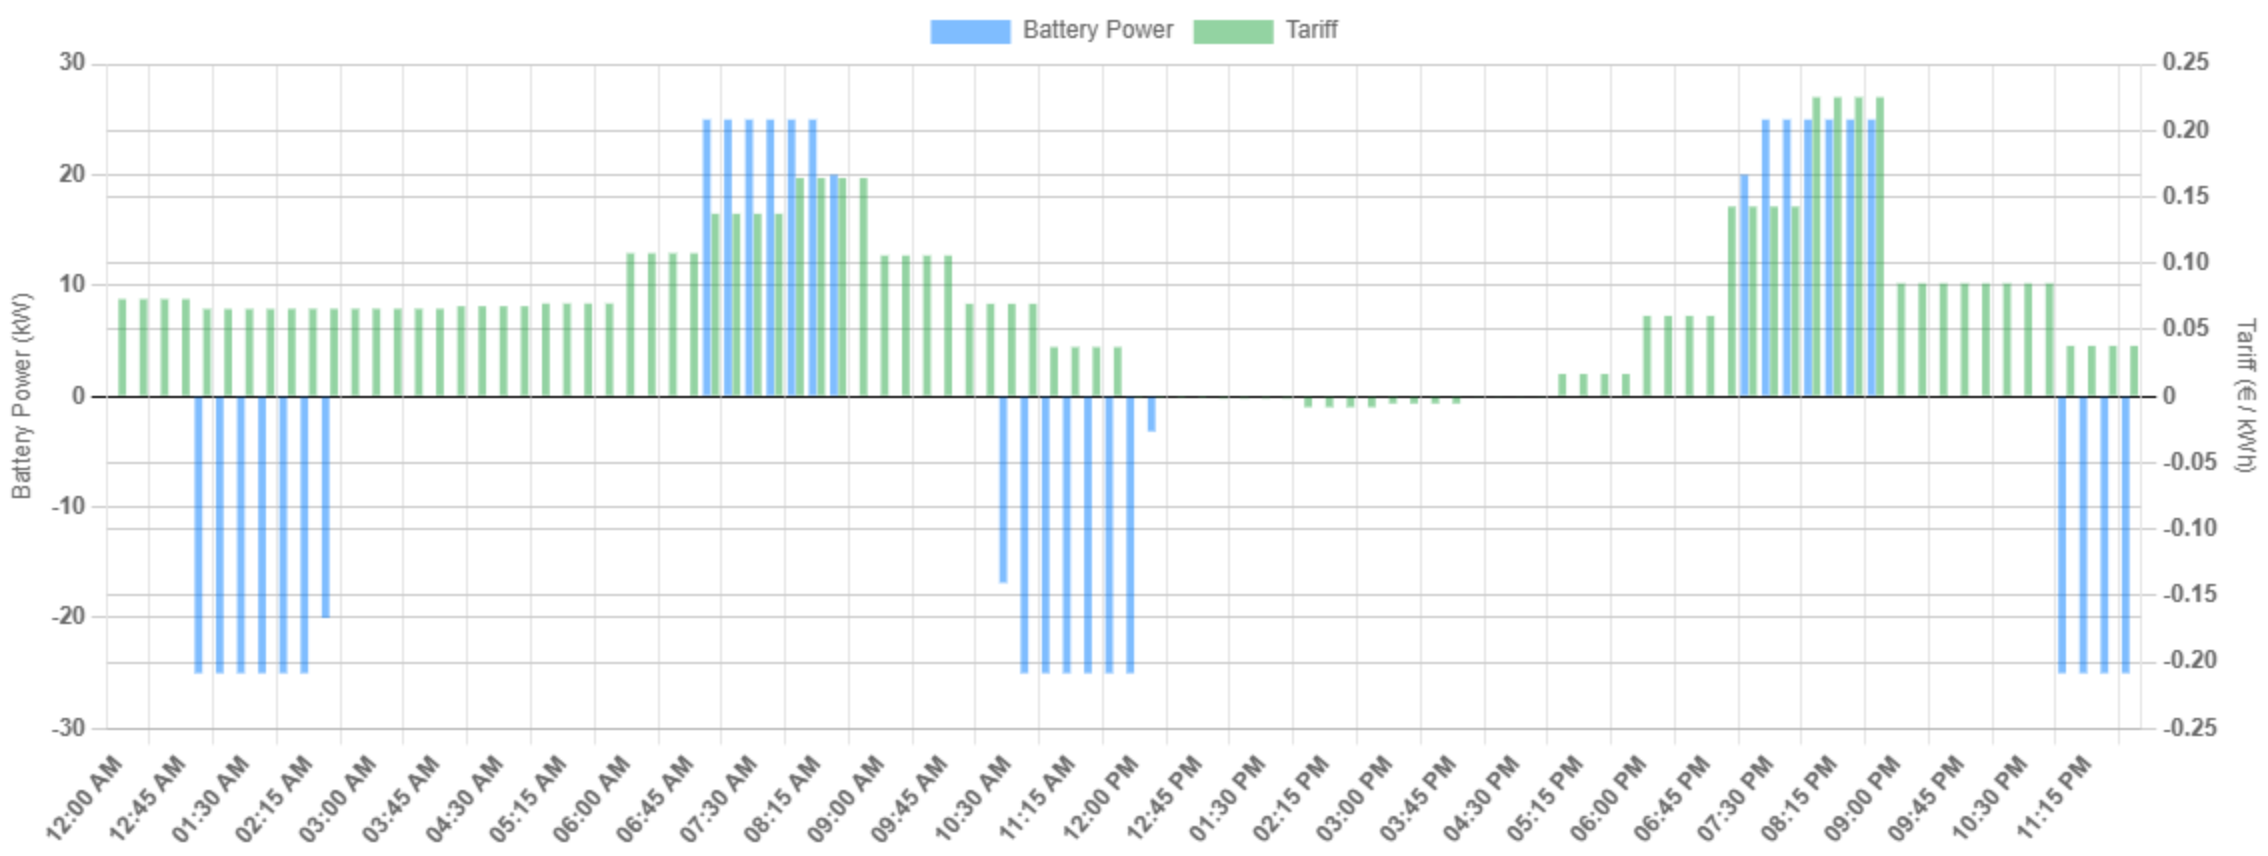
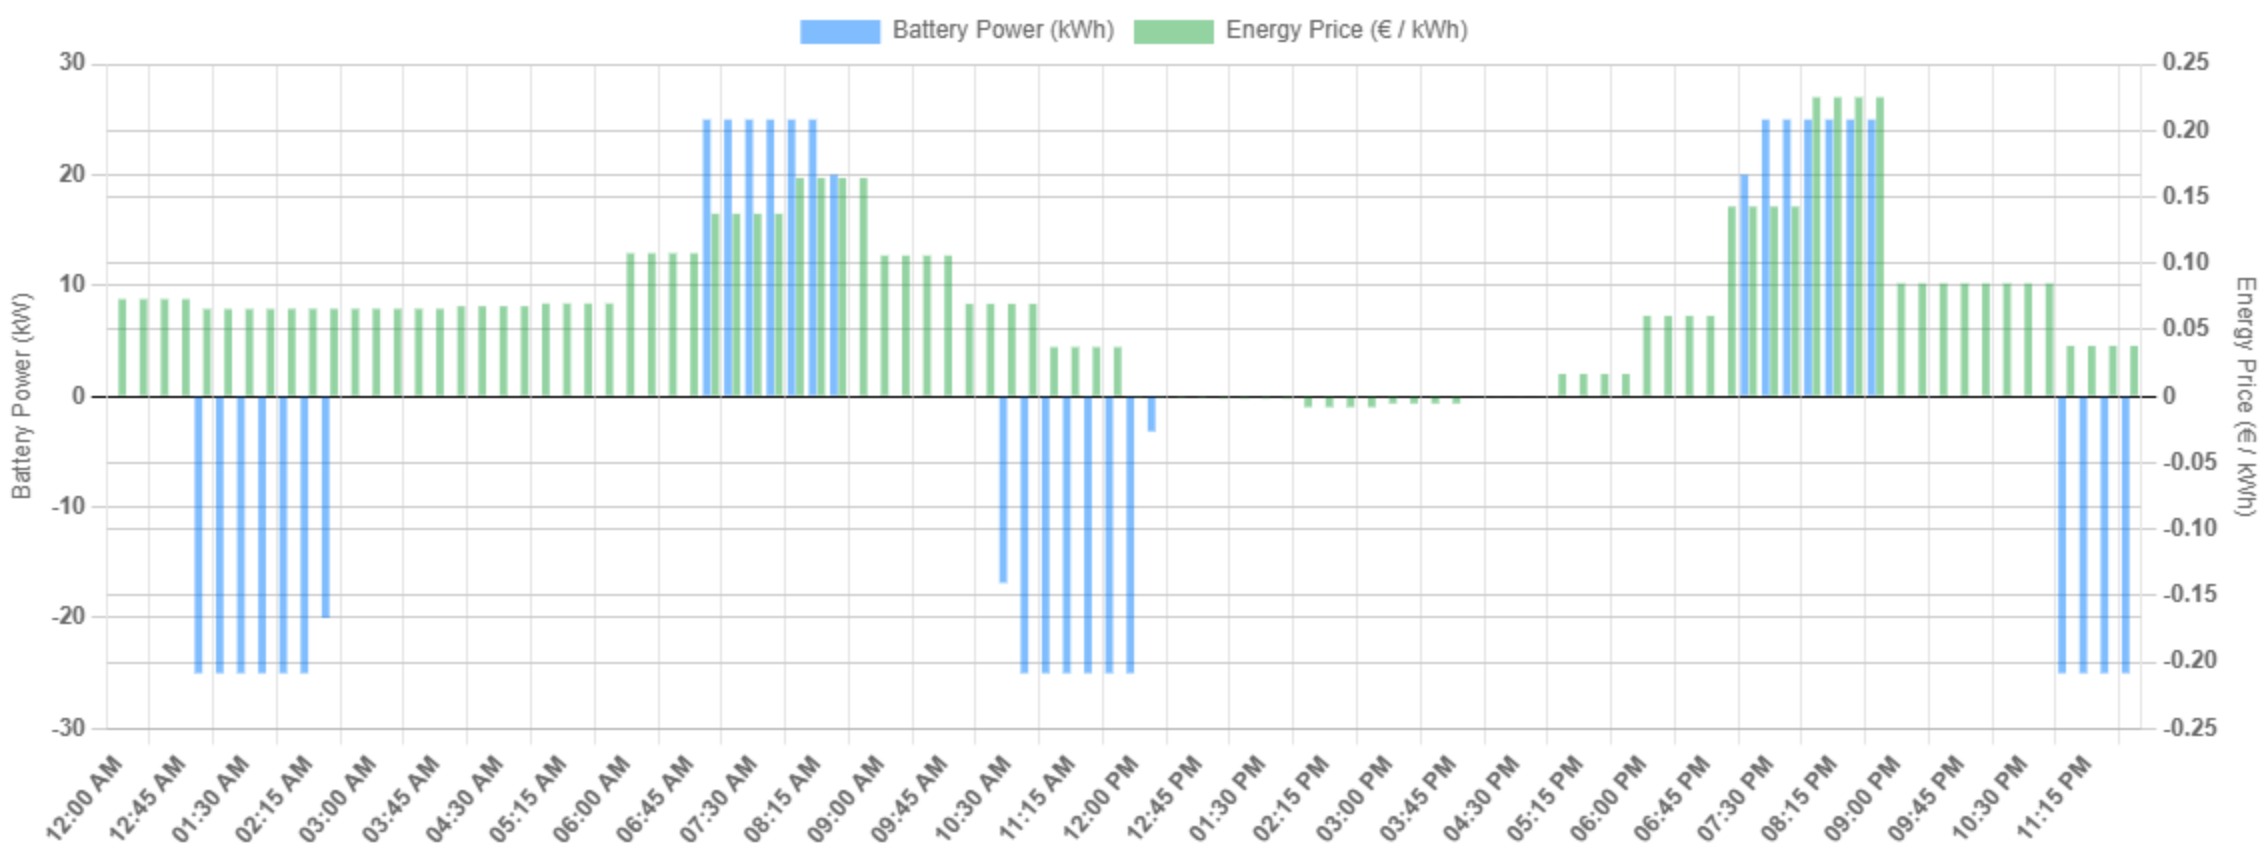
table is inline when opened, kwh, price etc are changed, but devices are not good with plants, ids are off, need to check seeder or smth

Changed region(s): [[0.3395, 0.0, 0.6481, 0.0607], [0.9877, 0.3037, 1.0, 0.6075]]

diff --git a/resources/views/plants/partials/devices-list.blade.php b/resources/views/plants/partials/devices-list.blade.php
@@ -1,98 +1,128 @@
+{{-- resources/views/plants/partials/devices-list.blade.php --}}
+{{-- This is a partial – no @extends here! --}}
+
+@pushOnce('styles')
+<style>
+    /* ------------- keep one rock-steady column grid ------------- */
+    .table-fixed               { table-layout:fixed; width:100%; }
+    .table-fixed th,
+    .table-fixed td            { white-space:nowrap; overflow:hidden; text-overflow:ellipsis; }
+
+    /* ------------- helpers for our show / hide logic ------------ */
+    tbody tr.d-none            { display:none; }
+    tbody tr:not(.d-none)      { display:table-row; }
+</style>
+@endPushOnce
+
+
 <div class="mb-6">
     <div class="card mb-5">
         <div class="card-header pb-0">
             <h3 class="text-lg font-semibold mb-4">Devices by Feed</h3>
         </div>
+
         <div class="card-body">
-            @foreach ($plant->mainFeeds as $feed)
-                <div class="mb-4 border rounded p-3">
-                    <div class="d-flex justify-content-between align-items-center mb-2">
-                        <h5 class="font-semibold text-primary">Main Feed ID: {{ $feed->id }}</h5>
-                        <button onclick="window.print()" class="btn btn-sm btn-success">
-                            <i class="bi bi-printer"></i> Export PDF
-                        </button>
-                    </div>
-                    <div class="table-responsive">
-                        <table class="table table-hover table-bordered">
-                            <thead class="table-light">
-                                <tr>
-                                    <th></th>
-                                    <th>Type</th>
-                                    <th>Manufacturer</th>
-                                    <th>Model</th>
-                                    <th>Status</th>
-                                </tr>
-                            </thead>
-                            <tbody>
-                                @foreach ($feed->devices->where('parent_device', true) as $parent)
-                                    @php $parentKey = 'parent-' . $parent->id; @endphp
-                                    <tr class="bg-light parent-row clickable-row" style="cursor: pointer"
-                                        onclick="window.location='{{ url('/devices/' . $parent->id) }}'">
-                                        <td class="text-center">
-                                            <button class="btn btn-sm p-0 toggle-btn" type="button"
-                                                data-toggle="collapse-row" data-target="#{{ $parentKey }}"
-                                                onclick="event.stopPropagation();">
-                                                <i class="bi bi-plus-circle toggle-icon"></i>
-                                            </button>
-                                        </td>
-                                        <td>{{ $parent->device_type }}</td>
-                                        <td>{{ $parent->manufacturer }}</td>
-                                        <td>{{ $parent->device_model }}</td>
-                                        <td>{{ $parent->device_status }}</td>
-                                    </tr>
-                                    <tr class="slave-row" id="{{ $parentKey }}" style="display: none">
-                                        <td colspan="5" class="p-0">
-                                            <table class="table table-hover mb-0">
-                                                <tbody>
-                                                    @foreach ($feed->devices->where('parent_device', false) as $child)
-                                                        @if ($child->main_feed_id === $parent->main_feed_id)
-                                                            <tr class="clickable-row" style="cursor: pointer"
-                                                                onclick="window.location='{{ url('/devices/' . $child->id) }}'">
-                                                                <td class="text-center"><i
-                                                                        class="bi bi-arrow-right"></i></i>
-                                                                </td>
-                                                                <td>{{ $child->device_type }}</td>
-                                                                <td>{{ $child->manufacturer }}</td>
-                                                                <td>{{ $child->device_model }}</td>
-                                                                <td>{{ $child->device_status }}</td>
-                                                            </tr>
-                                                        @endif
-                                                    @endforeach
-                                                </tbody>
-                                            </table>
-                                        </td>
-                                    </tr>
-                                @endforeach
-                            </tbody>
-                        </table>
-                    </div>
+        @foreach ($plant->mainFeeds as $feed)
+            <div class="mb-4 border rounded p-3">
+                {{-- === feed header === --}}
+                <div class="d-flex justify-content-between align-items-center mb-2">
+                    <h5 class="font-semibold text-primary mb-0">
+                        Main&nbsp;Feed&nbsp;ID:&nbsp;{{ $feed->id }}
+                    </h5>
+
+                    <button onclick="window.print()" class="btn btn-sm btn-success">
+                        <i class="bi bi-printer"></i> Export PDF
+                    </button>
                 </div>
-            @endforeach
+
+                {{-- === device table === --}}
+                <div class="table-responsive">
+                    <table class="table table-hover table-bordered table-fixed mb-0">
+                        <colgroup>
+                            <col style="width:48px">   {{-- toggle / arrow --}}
+                            <col style="width:18%">    {{-- Type --}}
+                            <col style="width:27%">    {{-- Manufacturer --}}
+                            <col style="width:27%">    {{-- Model --}}
+                            <col style="width:18%">    {{-- Status --}}
+                        </colgroup>
+
+                        <thead class="table-light">
+                            <tr>
+                                <th></th>
+                                <th>Type</th>
+                                <th>Manufacturer</th>
+                                <th>Model</th>
+                                <th>Status</th>
+                            </tr>
+                        </thead>
+
+                        <tbody>
+                        @foreach ($feed->devices->where('parent_device', true) as $parent)
+                            {{-- ---------- parent row ---------- --}}
+                            <tr class="bg-light clickable-row"
+                                style="cursor:pointer"
+                                onclick="window.location='{{ url('/devices/'.$parent->id) }}'">
+                                <td class="text-center">
+                                    <button class="btn btn-sm p-0 toggle-btn"
+                                            data-target=".child-{{ $parent->id }}"
+                                            onclick="event.stopPropagation();">
+                                        <i class="bi bi-plus-circle fs-5 toggle-icon"></i>
+                                    </button>
+                                </td>
+                                <td class="ps-3">{{ $parent->device_type }}</td>
+                                <td>{{ $parent->manufacturer }}</td>
+                                <td>{{ $parent->device_model }}</td>
+                                <td>{{ $parent->device_status }}</td>
+                            </tr>
+
+                            {{-- ---------- child rows ---------- --}}
+                            @foreach ($feed->devices
+                                        ->where('parent_device', false)
+                                        ->where('main_feed_id', $parent->main_feed_id) as $child)
+                                <tr class="d-none child-{{ $parent->id }}"
+                                    style="cursor:pointer"
+                                    onclick="window.location='{{ url('/devices/'.$child->id) }}'">
+                                    <td class="text-center ps-4">
+                                        <i class="bi bi-arrow-right"></i>
+                                    </td>
+                                    <td>{{ $child->device_type }}</td>
+                                    <td>{{ $child->manufacturer }}</td>
+                                    <td>{{ $child->device_model }}</td>
+                                    <td>{{ $child->device_status }}</td>
+                                </tr>
+                            @endforeach
+                        @endforeach
+                        </tbody>
+                    </table>
+                </div>
+            </div>
+        @endforeach
+
             <div class="mt-4">
-                <a href="{{ route('plants.index') }}" class="btn btn-secondary">Back to Plants</a>
+                <a href="{{ route('plants.index') }}" class="btn btn-secondary">
+                    Back to Plants
+                </a>
             </div>
         </div>
     </div>
 </div>
 
-<script>
-    document.addEventListener('DOMContentLoaded', () => {
-        document.querySelectorAll('.toggle-btn').forEach(button => {
-            button.addEventListener('click', (event) => {
-                const targetId = button.getAttribute('data-target');
-                const row = document.querySelector(targetId);
-                const icon = button.querySelector('.toggle-icon');
 
-                if (row.style.display === 'none') {
-                    row.style.display = 'table-row';
-                    icon.classList.remove('bi-plus-circle');
-                    icon.classList.add('bi-dash-circle');
-                } else {
-                    row.style.display = 'none';
-                    icon.classList.remove('bi-dash-circle');
-                    icon.classList.add('bi-plus-circle');
-                }
-            });
+@pushOnce('scripts')
+<script>
+document.addEventListener('DOMContentLoaded', () => {
+    document.querySelectorAll('.toggle-btn').forEach(btn => {
+        btn.addEventListener('click', () => {
+            const selector = btn.dataset.target;                  // ".child-XX"
+            document.querySelectorAll(selector).forEach(row =>
+                row.classList.toggle('d-none')                    // show / hide
+            );
+
+            const icon = btn.querySelector('.toggle-icon');       // flip icon
+            icon.classList.toggle('bi-plus-circle');
+            icon.classList.toggle('bi-dash-circle');
         });
     });
+});
 </script>
+@endPushOnce

diff --git a/resources/views/plants/partials/plant-chart.blade.php b/resources/views/plants/partials/plant-chart.blade.php
@@ -91,7 +91,7 @@
         <div class="card-body tab-content" id="batteryTabContent" style="height: 550px;">
             <div class="tab-pane fade show active h-100" id="batteryGraphTab" role="tabpanel"
                 aria-labelledby="battery-graph-tab">
-                <h4 class="text-center m-3">Battery Power and Tariff</h4>
+                <h4 class="text-center m-3">Battery Power and Energy Price</h4>
                 <div style="height: calc(100% - 90px); display: flex; align-items: center;">
                     <canvas id="batteryChart" style="width: 100%; height: 100%;"></canvas>
                 </div>
@@ -102,8 +102,8 @@
                         <thead class="table-light">
                             <tr>
                                 <th>Time</th>
-                                <th>Battery Power (W)</th>
-                                <th>Tariff (€ / kWh)</th>
+                                <th>Battery Power (kW)</th>
+                                <th>Energy Price (€ / kWh)</th>
                             </tr>
                         </thead>
                         <tbody id="batteryDataTableBody"></tbody>
@@ -269,13 +269,13 @@
                 labels,
                 datasets: [
                     {
-                        label: 'Battery Power',
+                        label: 'Battery Power (kWh)',
                         data: batteryDataKW,
                         backgroundColor: 'rgba(0,123,255,0.5)',
                         yAxisID: 'y',
                     },
                     {
-                        label: 'Tariff',
+                        label: 'Energy Price (€ / kWh)',
                         data: tariffData,
                         backgroundColor: 'rgba(40,167,69,0.5)',
                         yAxisID: 'y1',
@@ -312,7 +312,7 @@
                         grid: { drawOnChartArea: false },
                         title: {
                             display: true,
-                            text: 'Tariff (€ / kWh)'
+                            text: 'Energy Price (€ / kWh)'
                         },
                         ticks: {
                             font: { weight: 'bold' }
@@ -360,7 +360,7 @@
             data: {
                 labels: savingsLabels,
                 datasets: [{
-                    label: 'Battery Savings',
+                    label: 'Battery Savings (€)',
                     data: savingsData,
                     backgroundColor: savingsColors
                 }]

diff --git a/resources/views/layouts/app.blade.php b/resources/views/layouts/app.blade.php
@@ -15,6 +15,7 @@
 
     <!-- Scripts -->
     @vite(['resources/css/app.css', 'resources/js/app.js'])
+    @stack('styles')
 </head>
 
 <body class="font-sans antialiased">
@@ -41,6 +42,7 @@
             {{ $slot }}
         </main>
     </div>
+    @stack('scripts')
 </body>
 
 </html>
